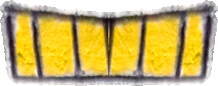
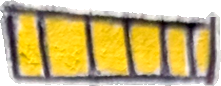
DoomBot thanks you, EdgeLord shrugs it off; a straight face for DoomBot
- The finale: DoomBot no longer took drawings down at night while
  everyone fought. "SEE THAT PILE? EVERY DRAWING ON IT, YOU BEAT. ALL I
  HAD TO DO WAS TAKE THEM DOWN." - then each story's thank-you.
- EdgeLord is not fooled, he is confident: "Yours? Please. I cut out every
  drawing on this fridge. There's just one more to go." - "...ONE MORE?"
- DoomBot's mouth is his whole row of teeth as drawn (the mirrored half-row
  met in a V and read as a grin), and his face is a poker face:
  FighterData.FaceStrength 0.55 tones his squints, brows and wide eyes.

diff --git a/tools/art/cut_doombot.py b/tools/art/cut_doombot.py
@@ -24,7 +24,7 @@ turn_torso; Eric picked 60/40 from the mockups in doombot_front_mockup.py):
     little shorter - the ear on the head, the socket and the hatch on the body;
   - 60% is a new front facing us, filled with his own grey pencil, carrying copies of his marks:
     his eye as drawn nearer the corner, a mirrored copy at 88% as the far eye, each with its
-    brow, his teeth (the left half, mirrored) as a mouth across it, and on the body his block of
+    brow, his whole row of teeth as drawn as a mouth across it, and on the body his block of
     controls exactly as drawn;
   - the only new lines are the edges of the new fronts and the corner, in his marker colour at
     his line width.
@@ -195,11 +195,15 @@ ANTENNAE = [(540, 170), (960, 170), (960, 338), (540, 318)]
 ANTENNA_SPLIT_X = 760
 BACK_ANTENNA_BASE = (695, 325)
 FRONT_ANTENNA_BASE = (815, 331)
-# His eye and the dark brow over it; his teeth from their left end to the middle of the third gap
-# (mirrored about it, six teeth closed at both ends); clean grey between the antenna-ear and the
-# eye, which the new face is filled with; and the short neck under the head.
+# His eye and the dark brow over it; his whole row of teeth as drawn, from its left end to the
+# head's front edge, which closes it (Eric, 2026-10-21: the mirrored half-row met in a V and read
+# as a grin - he wanted it straight-faced); clean grey between the antenna-ear and the eye, which
+# the new face is filled with; and the short neck under the head.
 EYE_BOX = (786, 366, 895, 499)
-TEETH_HALF = (727, 517, 852, 603)
+TEETH_HALF = (727, 517, 934, 603)
+# How far down the row's top edge comes at its right end, where his line slopes: above it is the
+# head's edge line, not mouth.
+TEETH_TOP_DROP = 18
 HEAD_GREY = (700, 362, 786, 505)
 NECK_BOX = (632, 617, 762, 650)
 # Where faces.py finds each feature on a copy of the eye, in the eye's own box: the eye, the brow,
@@ -608,7 +612,7 @@ def turn_head(head, photo, look, share=FRONT_SHARE):
     """
     His head turned toward us: his drawn side with the antenna-ear squeezed on the left, and a new
     face on the right - his grey pencil, his eye as drawn nearer the corner, a mirrored copy of it
-    (brow and all) a little smaller as the far eye, and his teeth mirrored into a mouth across it.
+    (brow and all) a little smaller as the far eye, and his row of teeth as a mouth across it.
     The antennae stand back on the top and the neck goes under the middle. Returns the head and
     where things went: 'neck', 'eye' (the near eye's middle), 'antenna_back'/'antenna_front' (how
     far each antenna moved) and 'faces' (each feature's box and points, for faces.py).
@@ -638,11 +642,12 @@ def turn_head(head, photo, look, share=FRONT_SHARE):
     far = (int(round(f0 + wf * 0.72 - (w - ex) * FAR_EYE)), int(round(EYE[1] - ey * FAR_EYE)))
     out.alpha_composite(far_eye, far)
 
-    half = look.crop(TEETH_HALF).convert('RGBA')
-    hw, hh = half.size
-    mouth = Image.new('RGBA', (hw * 2 - 2, hh), (0, 0, 0, 0))
-    mouth.paste(half, (0, 0))
-    mouth.paste(half.transpose(Image.FLIP_LEFT_RIGHT), (hw - 2, 0))
+    mouth = look.crop(TEETH_HALF).convert('RGBA')
+    hw, hh = mouth.size
+    # Only the teeth: not the bit of the head's edge line standing up past their sloping top.
+    keep = Image.new('L', mouth.size, 0)
+    ImageDraw.Draw(keep).polygon([(0, 0), (hw - 12, TEETH_TOP_DROP), (hw, TEETH_TOP_DROP), (hw, hh), (0, hh)], fill=255)
+    mouth.putalpha(ImageChops.multiply(mouth.split()[3], keep))
     mw = int(round(wf * 0.8))
     mouth = mouth.resize((mw, hh), Image.LANCZOS)
     mouth.putalpha(ImageChops.multiply(mouth.split()[3], feathered(mouth.size, inset=1, blur=1.2)))

diff --git a/scripts/FighterData.cs b/scripts/FighterData.cs
@@ -270,6 +270,12 @@ public partial class FighterData : Resource
 		return i >= 0 && i < Moves.Length ? Moves[i] : null;
 	}
 
+	/// <summary>
+	/// How much his face shows what he feels, 0 to 1 (FaceState.Toned): 1 for everyone but a
+	/// deadpan robot, whose eyes and brows only move part of the way.
+	/// </summary>
+	public float FaceStrength = 1.0f;
+
 	/// <summary>Body weight for the knockback formula, derived from the weight class.</summary>
 	public float BodyWeight => WeightProfiles.BodyWeight(Weight);
 
@@ -461,6 +467,8 @@ public partial class FighterData : Resource
 		{
 			DisplayName = "DoomBot",
 			VoicePitch = 0.6f,
+			// A robot's poker face: his eyes and brows only go part of the way (Eric, 2026-10-21).
+			FaceStrength = 0.55f,
 			Artist = "Eric",
 			PlaceholderColor = new Color(0.86f, 0.28f, 0.26f),
 			Weight = WeightClass.Heavy,

diff --git a/scripts/FaceState.cs b/scripts/FaceState.cs
@@ -43,6 +43,22 @@ public struct FaceState
 	public static readonly FaceState Smug = new FaceState { Squint = 0.55f, Angry = 0.25f, LookX = 0.5f };
 	public static readonly FaceState Talking = new FaceState { Open = 0.6f };
 
+	/// <summary>
+	/// The face with its feeling turned down to <paramref name="strength"/> (FighterData.FaceStrength):
+	/// squints, brows, wide eyes and grit all less far - a blink, talking and where he looks unchanged.
+	/// </summary>
+	public static FaceState Toned(FaceState f, float strength)
+	{
+		if (strength >= 1.0f) return f;
+		f.Squint *= strength;
+		f.Wide *= strength;
+		f.Angry *= strength;
+		f.Sad *= strength;
+		f.Surprise *= strength;
+		f.Grit *= strength;
+		return f;
+	}
+
 	public static FaceState Named(string name) => name switch
 	{
 		"closed" => Closed,

diff --git a/scripts/RigParade.cs b/scripts/RigParade.cs
@@ -432,7 +432,7 @@ public partial class RigParade : Node2D
 			}
 			else
 			{
-				FaceState face = names[i] == "talking" ? FaceState.Talking : FaceState.Named(names[i]);
+				FaceState face = FaceState.Toned(names[i] == "talking" ? FaceState.Talking : FaceState.Named(names[i]), data.FaceStrength);
 				if (names[i] == "talking") face.Open = 0.85f;
 				rig.SetFace(face);
 				label = names[i];

diff --git a/scripts/FighterFace.cs b/scripts/FighterFace.cs
@@ -59,7 +59,7 @@ public partial class Fighter
 		{
 			nextBlink = fxFrames + 150 + (int)(Mathf.Abs(CrayonBrush.Noise(fxFrames, PlayerIndex + 23)) * 170.0f);
 		}
-		FaceState shown = faceNow;
+		FaceState shown = FaceState.Toned(faceNow, Data.FaceStrength);
 		int untilBlink = nextBlink - fxFrames;
 		bool blinking = untilBlink <= BlinkFrames && State != FighterState.Hitstun;
 		if (blinking)

diff --git a/.ai/story-mode.md b/.ai/story-mode.md
@@ -309,15 +309,14 @@ Every story but DoomBot's own ends the same way, with each fighter's own lines.
   narrator: "One by one, the drawings had been coming down. And not because of the fights."
   The camera tilts up to the freezer door. A red eye opens. Heavy footsteps, each one a shake.
   DoomBot lands on rocket boots.
-- **He explains the plan** - properly, the way a villain does. A stack of taken-down drawings is
-  piled behind him, and they are the other fighters' own drawings - everyone's but his and
-  yours - partly torn or rubbed out (Eric, 2026-10-21; `TakenDownPile`, below). "GREETINGS, SMALL DRAWING. ALL THOSE FIGHTS. ALL THAT
-  FUSS. IT WAS A... DISTRACTION." He shows off the pile. "SEE THAT PILE? EVERY NIGHT,
-  WHILE YOU FOUGHT EACH OTHER, I TOOK ONE DOWN. YOU BLAMED EACH OTHER. NOBODY SUSPECTED... THE
-  ROBOT."
-- **He thanks you** (Eric, 2026-10-21) - every drawing you beat on the way here, he took down,
-  so you did his work for him. Each story's own "== thanks", in its own terms: EdgeLord, "THANK
-  YOU FOR CUTTING OUT THE OTHER DRAWINGS" ("...I was cutting them out for YOU?"); Flambé,
+- **He thanks you.** A stack of taken-down drawings is piled behind him, and they are the
+  other fighters' own drawings - everyone's but his and yours - partly torn or rubbed out
+  (Eric, 2026-10-21; `TakenDownPile`, below). He does not sneak about at night: you beat them,
+  he only had to take them down, and he thanks you for it (Eric, 2026-10-21). "GREETINGS, SMALL
+  DRAWING. SEE THAT PILE? EVERY DRAWING ON IT, YOU BEAT. ALL I HAD TO DO WAS TAKE THEM DOWN."
+  Then each story's own "== thanks", in its own terms: EdgeLord, "THANK YOU FOR CUTTING OUT THE
+  OTHER DRAWINGS. NOW THE FRIDGE IS ALMOST MINE." - and EdgeLord, unbothered: "Yours? Please. I
+  cut out every drawing on this fridge. There's just one more to go." - "...ONE MORE?"; Flambé,
   roasting them ("I was your... sous-chef?"); Lugnut, clearing the site ("That was NOT the job");
   Circy, the evil stunts ("Bro. I got played?!"); Triguy, running them off ("not kewl." - "NOT
   KEWL FOR THEM. VERY KEWL. FOR ME."). Then:
